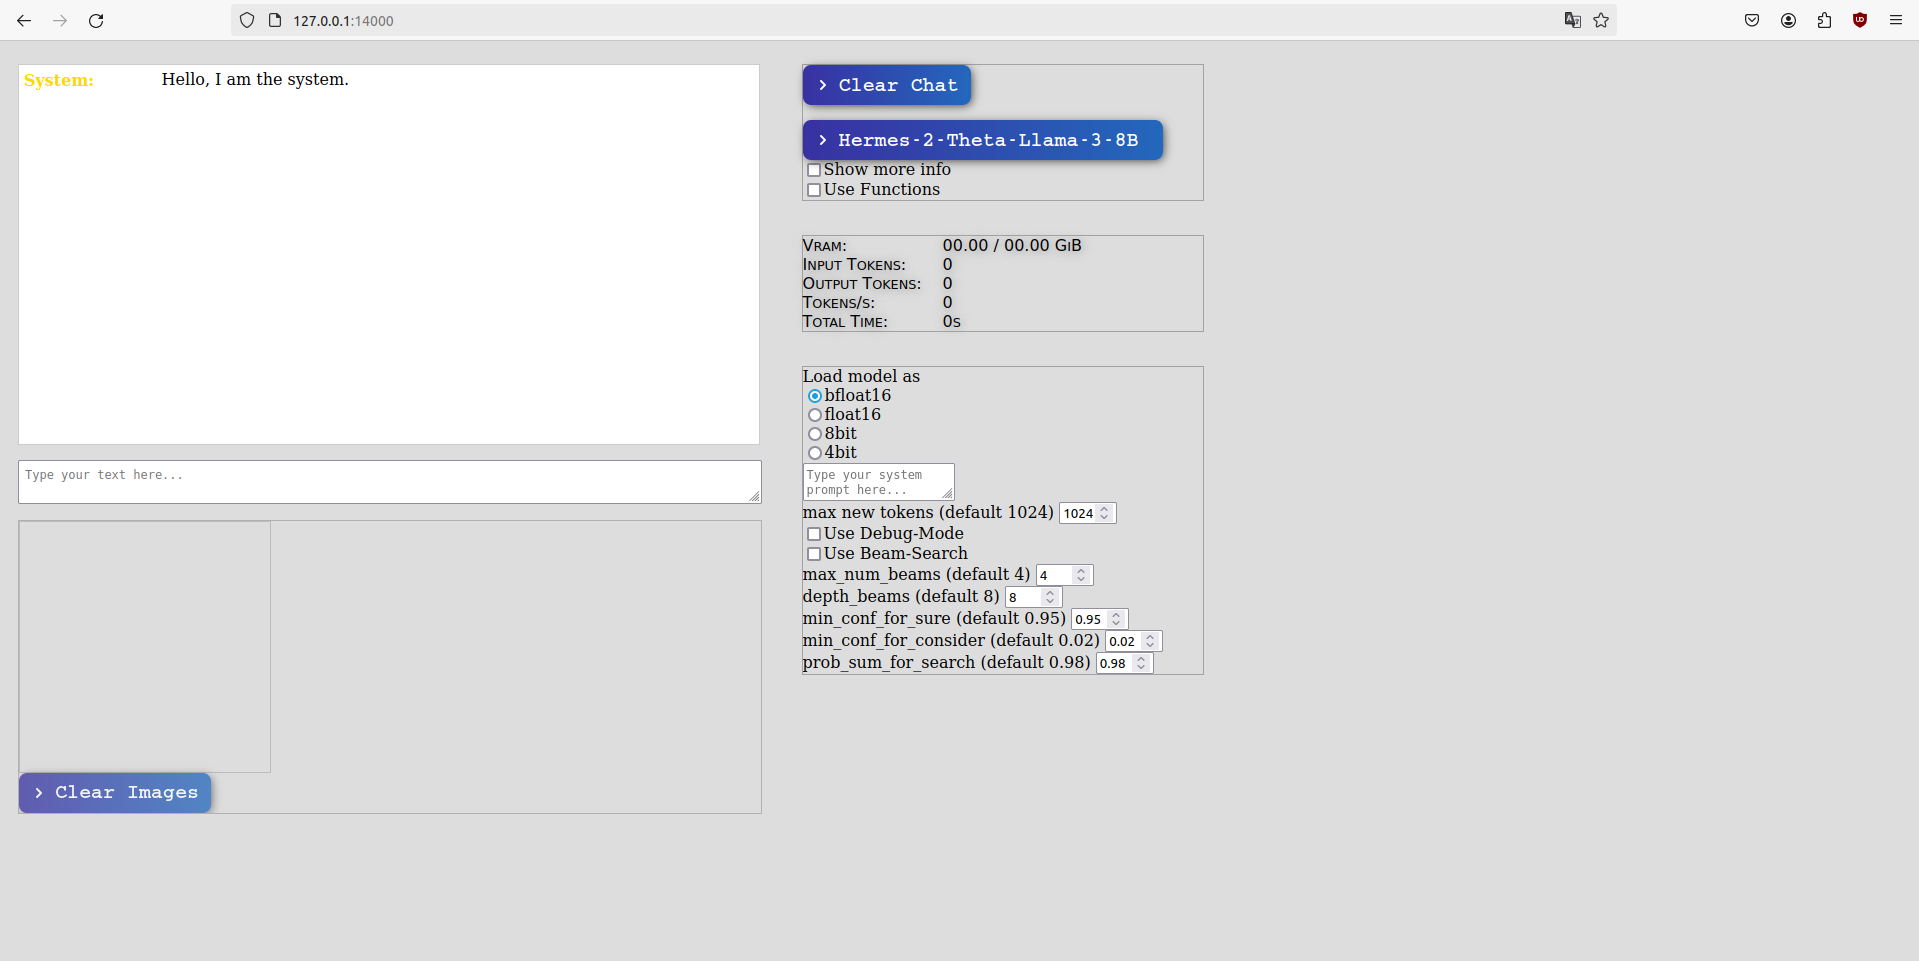
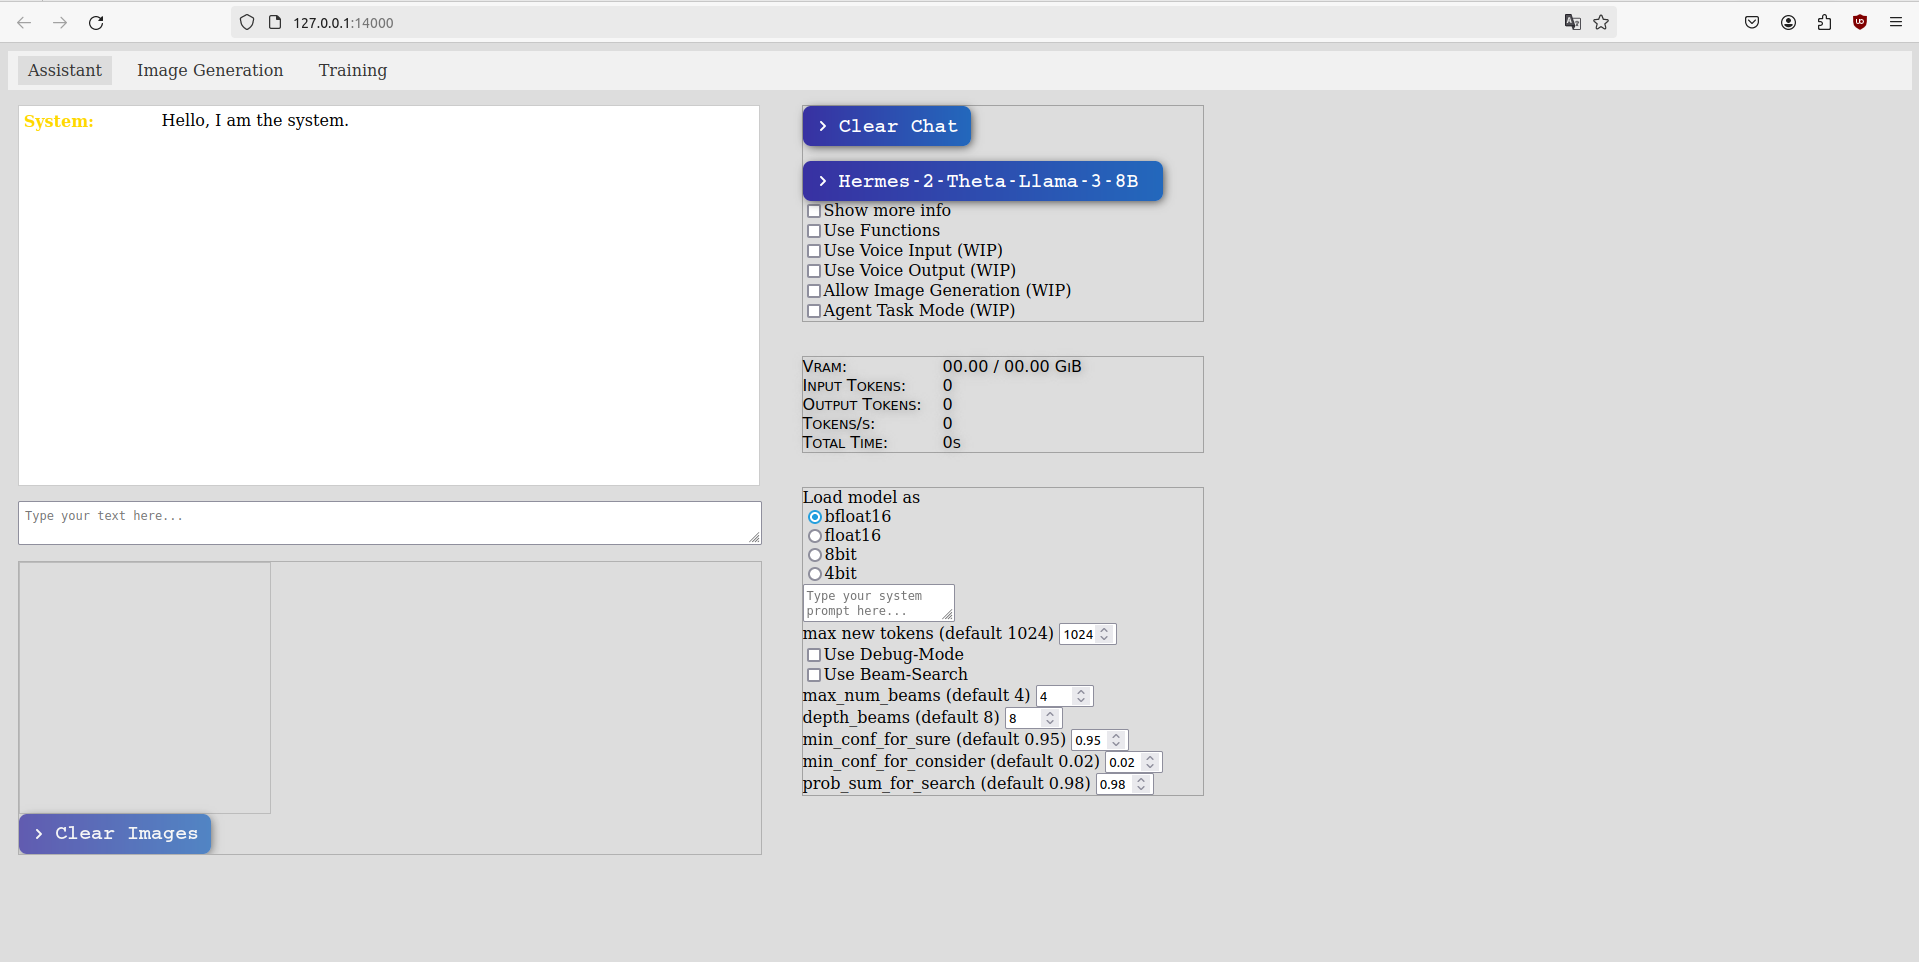
added some info to readme, updated image in readme

diff --git a/readme.md b/readme.md
@@ -6,14 +6,18 @@ This project may use optional libraries like LlaVA-NeXT that are subject to thei
 ## Asba Web Assistant
 
 working:  
-- image support  
+- image input support (Llama-3-Llava & phi-3-vision)  
 - multiple models  
-- custom adaptive beam search  
+- custom adaptive beam search
+
+WIP:
+- txt2img, txt+img2img
+- training support
 
 ### running it  
-`cd server_inference && python3 server.py # this is enough if you only want api without web ui`  
+1. `./start_infer.sh` # this is enough if you only want the api without web ui  
 
-`cd server_web && python3 server.py`
+2. `./start_web.sh` # for the web-ui
 
 ### more info  
 
